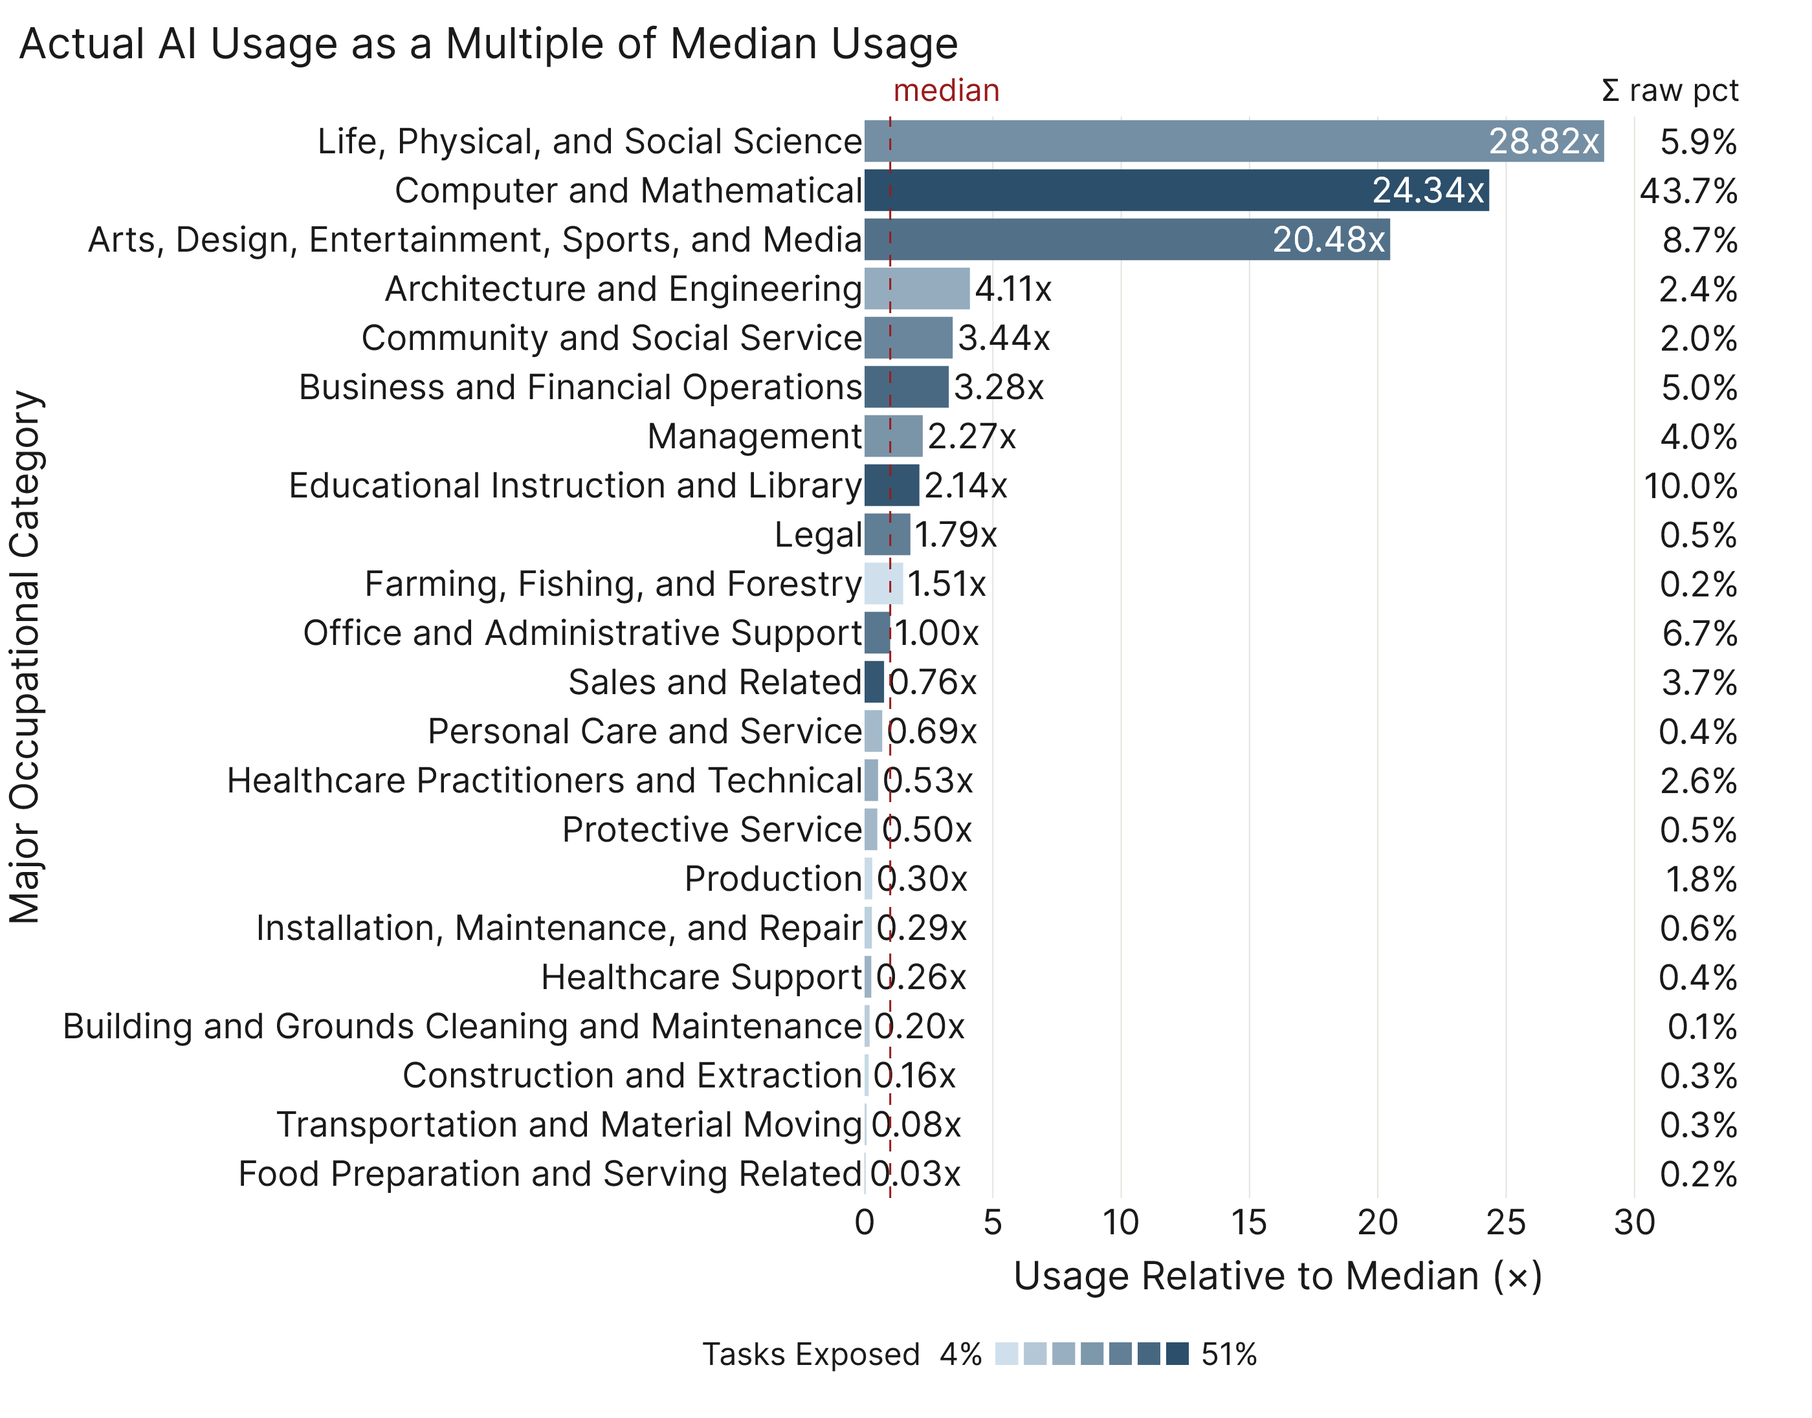
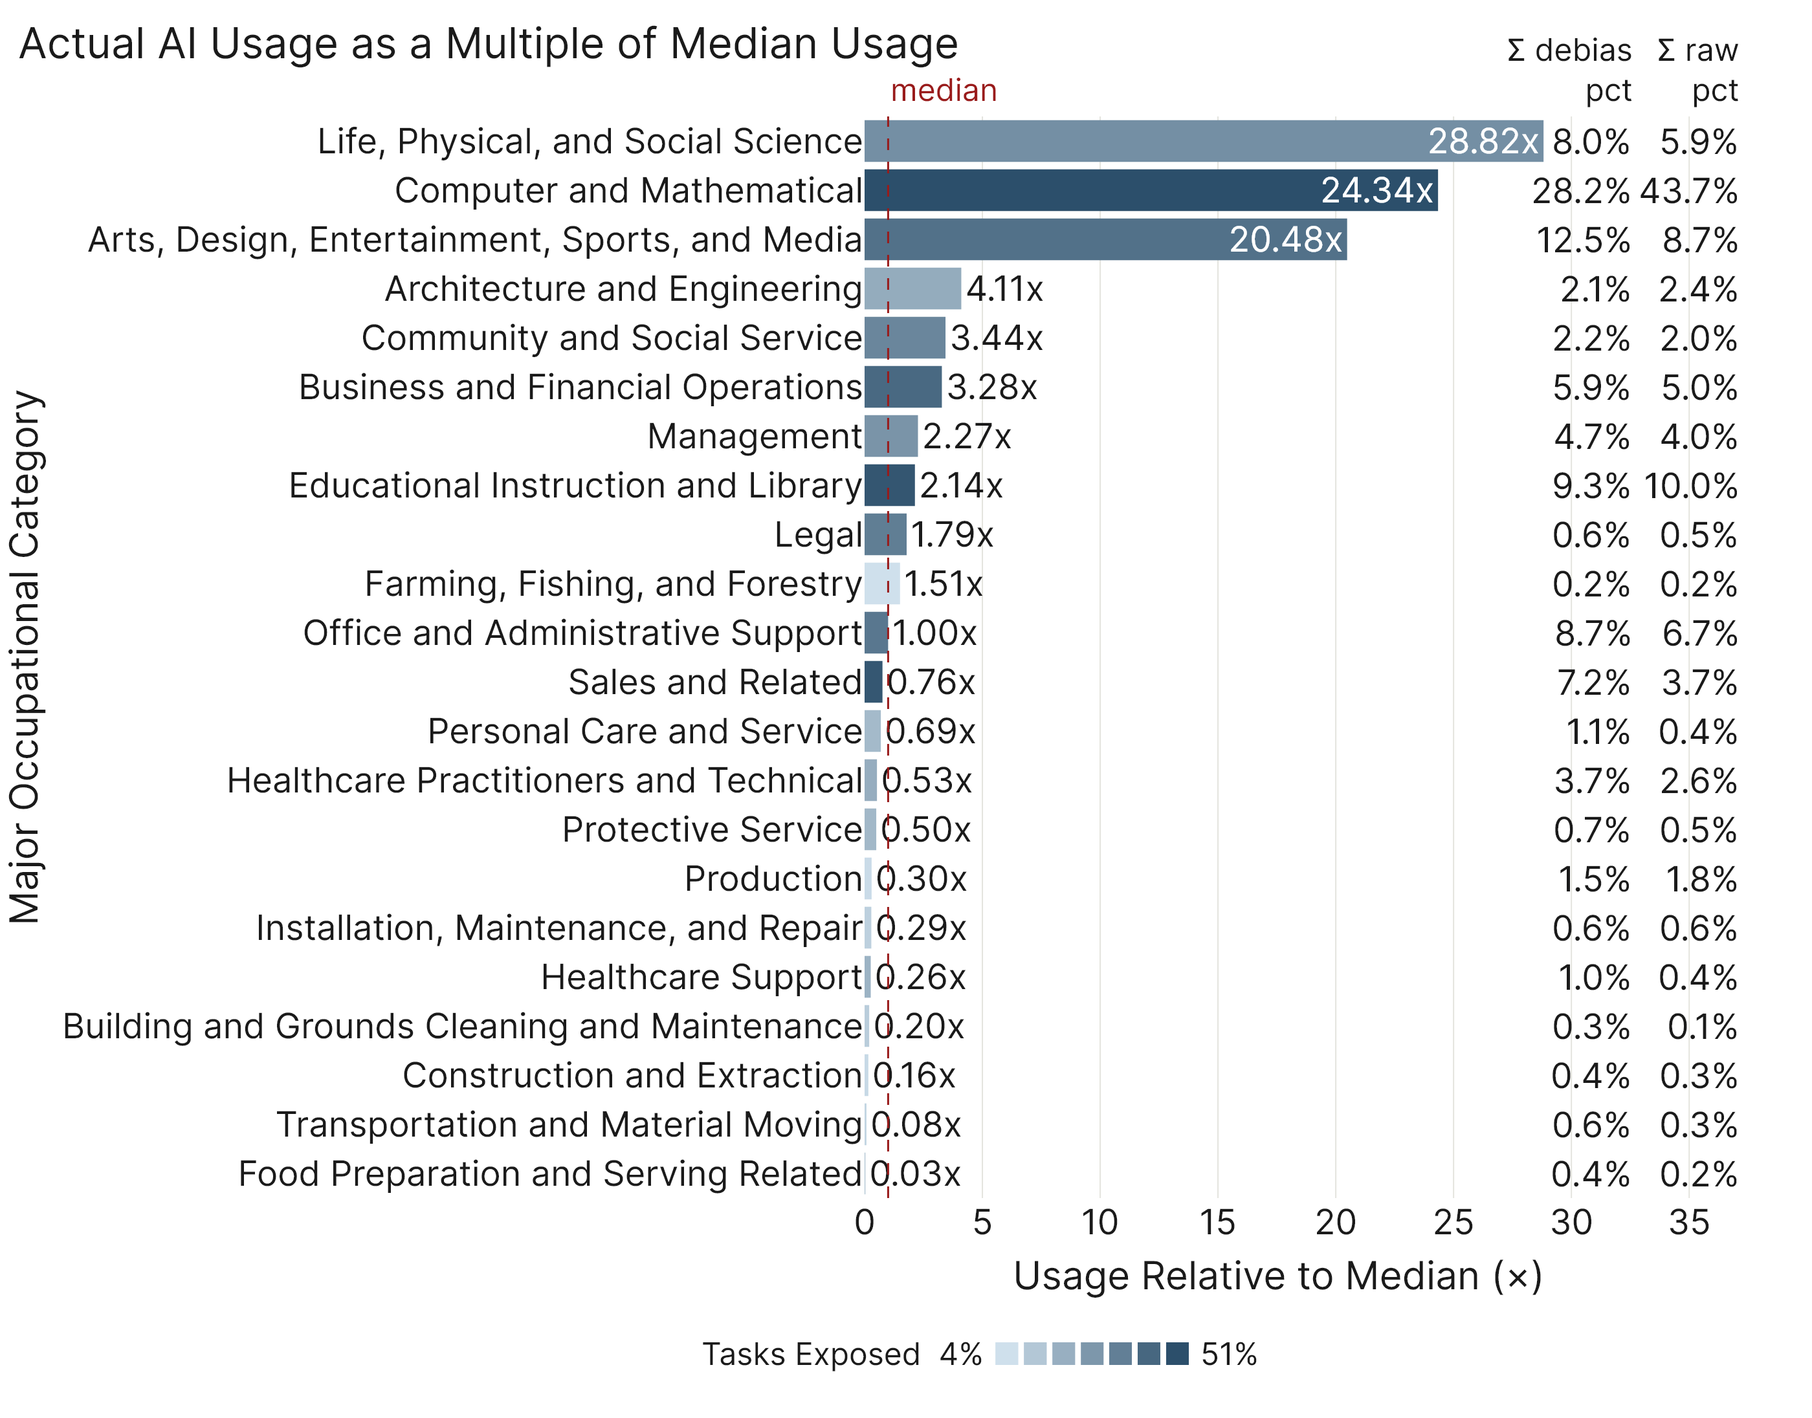
actual ai usage main chart debias pct column added

diff --git a/analysis/paper/results/part_3/run.py b/analysis/paper/results/part_3/run.py
@@ -660,8 +660,18 @@ def build_intensity_anchor_fulleco(results: Path, figures: Path) -> None:
     base["lift"] = base["ratio_full_pct"] / anchor_val
     median_lift = float(base["lift"].median())
 
+    # Debiased usage-mass share, the bias-corrected counterpart to raw_pct.
+    # raw_pct sums to 100% across the 22 majors (Σ pct_normalized is already a
+    # share of total economy usage); the debiased adj_pct sums to >100 because
+    # the GWA bias correction rescales the mass, so we renormalize to 100% to
+    # keep the two columns directly comparable as shares.
+    num_total = float(base["num"].sum())
+    base["debias_pct"] = np.where(
+        num_total > 0, base["num"] / num_total * 100.0, 0.0
+    )
+
     out = base[["category", "ratio_full_pct", "lift", "pct_tasks_affected",
-                "raw_pct"]].copy()
+                "raw_pct", "debias_pct"]].copy()
     out["anchor_value"] = anchor_val
     out["median_lift"] = median_lift
     save_csv(
@@ -694,10 +704,11 @@ def build_intensity_anchor_fulleco(results: Path, figures: Path) -> None:
         for v in plot_df["lift"]
     ]
     # Axis headroom beyond the longest bar so the top bars' inside labels
-    # aren't crammed against the right edge and the bar ends clear the
-    # Σ raw pct column (which is pinned near the PNG edge and can't shift
-    # further right). 12% leaves a comfortable gap without looking empty.
-    x_axis_max = max(plot_df["lift"]) * 1.12
+    # aren't crammed against the right edge and the bar ends clear BOTH
+    # right-margin columns (Σ debias pct sits in the plot-area tail and can't
+    # shift further right). 18% squishes the bars slightly to open that tail
+    # so the inner column has clean whitespace to land in.
+    x_axis_max = max(plot_df["lift"]) * 1.22
     inside_font  = dict(size=px["tick"], color="white",                family=FONT_FAMILY)
     outside_font = dict(size=px["tick"], color=PAPER_PALETTE["text"], family=FONT_FAMILY)
 
@@ -735,30 +746,42 @@ def build_intensity_anchor_fulleco(results: Path, figures: Path) -> None:
         font=dict(size=px["in_chart_floor"], color=PAPER_PALETTE["negative"], family=FONT_FAMILY),
     )
 
-    # Raw Σ pct-norm column in the right whitespace — un-debiased
-    # Σ pct_normalized per major (the same quantity the appendix
-    # intensity_drivers charts print beside each bar). The bars keep their
-    # bias-corrected lift labels; this adds the raw usage mass as a tidy
-    # right-aligned numeric column so a high-lift / low-mass major (e.g.
-    # Computer & Math carries the largest raw pct but not the largest lift)
-    # is legible. Fixed %.1f means every value has the same decimal width,
-    # so right-anchoring lines the decimal points up into a clean column.
-    # Anchored in paper coords (into the right margin) so it sits clear of
-    # the longest bar regardless of the lift axis range.
-    COL_X = 1.06  # paper x — right edge of the column, ~12 px in from the PNG edge
-    fig.add_annotation(
-        x=COL_X, y=1.005, xref="paper", yref="paper",
-        text="Σ raw pct", showarrow=False,
-        xanchor="right", yanchor="bottom",
-        font=dict(size=px["in_chart_floor"], color=PAPER_PALETTE["text"], family=FONT_FAMILY),
-    )
-    for cat, raw in zip(plot_df["display_category"], plot_df["raw_pct"]):
+    # Two right-margin numeric columns in the whitespace beyond the bars:
+    # the bias-corrected Σ debias pct (inner) and the un-debiased Σ raw pct
+    # (outer, the same quantity the appendix intensity_drivers charts print
+    # beside each bar). Both are usage-mass shares that sum to 100% across the
+    # 22 majors — raw_pct from Σ pct_normalized, debias_pct from Σ adj_pct
+    # renormalized to 100% (debias reallocates mass, so the comparable view is
+    # the redistributed share, matching the audit pipeline's "renormed to 100%"
+    # convention). Printing them side by side exposes how the GWA debias
+    # reweights mass: Computer & Math falls 43.7% -> 28.2%, Arts rises
+    # 8.7% -> 12.5%. The bars keep their bias-corrected lift labels. Fixed
+    # %.1f keeps a constant decimal width so right-anchoring lines the decimals
+    # into clean columns; two-line headers keep each column narrow. Both sit
+    # in the right whitespace the original chart already had (the squished
+    # plot-area tail past the bars + the original ~92 px margin), so the total
+    # right whitespace matches the single-column original — the outer Σ raw pct
+    # stays at its original 1.06 position and the inner Σ debias pct lands in
+    # the gridline-free tail just left of it.
+    COL_X_DEBIAS = 0.93  # paper x — right edge of the inner (debias) column
+    COL_X_RAW = 1.06     # paper x — right edge of the outer (raw) column
+    for col_x, header, field in (
+        (COL_X_DEBIAS, "Σ debias<br>pct", "debias_pct"),
+        (COL_X_RAW, "Σ raw<br>pct", "raw_pct"),
+    ):
         fig.add_annotation(
-            x=COL_X, y=cat, xref="paper", yref="y",
-            text=f"{raw:.1f}%", showarrow=False,
-            xanchor="right", yanchor="middle",
-            font=dict(size=px["tick"], color=PAPER_PALETTE["text"], family=FONT_FAMILY),
+            x=col_x, y=1.005, xref="paper", yref="paper",
+            text=header, showarrow=False,
+            xanchor="right", yanchor="bottom", align="right",
+            font=dict(size=px["in_chart_floor"], color=PAPER_PALETTE["text"], family=FONT_FAMILY),
         )
+        for cat, val in zip(plot_df["display_category"], plot_df[field]):
+            fig.add_annotation(
+                x=col_x, y=cat, xref="paper", yref="y",
+                text=f"{val:.1f}%", showarrow=False,
+                xanchor="right", yanchor="middle",
+                font=dict(size=px["tick"], color=PAPER_PALETTE["text"], family=FONT_FAMILY),
+            )
 
     # Bottom legend: HTML-swatch gradient matching tech_commodities style.
     def _hex_to_rgb(h: str) -> tuple[int, int, int]:
@@ -807,8 +830,11 @@ def build_intensity_anchor_fulleco(results: Path, figures: Path) -> None:
             "Claude / Copilot / ChatGPT GWA-distribution blend (work-related ChatGPT chats)."
         ),
         height=chart_h, width=W,
-        # r sized to host the "Σ raw pct" column with a small edge clearance
-        # so the trailing "%" never clips.
+        # r kept at the original single-column width — both numeric columns
+        # (Σ debias pct, Σ raw pct) fit in the existing right whitespace
+        # (squished plot-area tail + this margin), so the chart's right edge
+        # matches the original. Σ raw pct keeps its small edge clearance so the
+        # trailing "%" never clips.
         margin=dict(l=20, r=92, t=MARGIN_T, b=MARGIN_B),
     )
     fig.update_layout(bargap=0.15)

diff --git a/analysis/paper/results/results_prose_dense.md b/analysis/paper/results/results_prose_dense.md
@@ -793,34 +793,34 @@ The legend below the map (2 columns, centered) renders the cluster names — eac
 
 ![intensity_anchor_fulleco.png](part_3/figures/intensity_anchor_fulleco.png)
 
-22 majors ranked by AI intensity ratio (Σ pct ÷ Σ freq × emp over the full eco_2025 universe, debiased by Claude / Copilot / ChatGPT GWA-distribution priors, AEI-only no-Microsoft pool), renormalized to sum to 100% across the 22 majors, then divided by the anchor major's value so the anchor reads as 1.00×. **Anchor**: Office and Administrative Support (renormalized share 1.0316% — sits at 1.00× by construction). A dashed vertical line at x = 1.0 marks the anchor (labeled "median"); the statistical median across the 22 lifts is 0.8799×. Bars are colored by `pct_tasks_affected` (the All Confirmed AEI-only-eco_2025 % tasks affected for that major) on a light → dark blue ramp. Bar text shows lift value (e.g., "28.82x") inside in white for wide bars, outside in dark for narrow bars. A right-aligned `Σ raw pct` column in the right margin reports each major's un-debiased Σ pct_normalized (raw AI-usage mass), in the same spirit as the appendix intensity_drivers charts that print the raw pct beside each bar. The column exposes a divergence the lift axis hides: Computer & Mathematical carries by far the largest raw usage mass (43.7%) yet ranks only second by lift, because its full-eco denominator (Σ freq × emp) is large.
+22 majors ranked by AI intensity ratio (Σ pct ÷ Σ freq × emp over the full eco_2025 universe, debiased by Claude / Copilot / ChatGPT GWA-distribution priors, AEI-only no-Microsoft pool), renormalized to sum to 100% across the 22 majors, then divided by the anchor major's value so the anchor reads as 1.00×. **Anchor**: Office and Administrative Support (renormalized share 1.0316% — sits at 1.00× by construction). A dashed vertical line at x = 1.0 marks the anchor (labeled "median"); the statistical median across the 22 lifts is 0.8799×. Bars are colored by `pct_tasks_affected` (the All Confirmed AEI-only-eco_2025 % tasks affected for that major) on a light → dark blue ramp. Bar text shows lift value (e.g., "28.82x") inside in white for wide bars, outside in dark for narrow bars. Two right-aligned numeric columns in the right margin report each major's usage mass as a share that sums to 100% across the 22 majors: `Σ debias pct` (the bias-corrected Σ adj_pct, renormalized to 100% — debias reallocates mass so the comparable view is the redistributed share) and `Σ raw pct` (the un-debiased Σ pct_normalized, the same quantity the appendix intensity_drivers charts print beside each bar). Side by side they expose how the GWA debias reweights usage mass — Computer & Mathematical falls from 43.7% raw to 28.2% debiased, while Arts rises from 8.7% to 12.5% — and the divergence the lift axis hides: Computer & Mathematical carries by far the largest raw usage mass (43.7%) yet ranks only second by lift, because its full-eco denominator (Σ freq × emp) is large.
 
 Per major (sorted by lift descending):
 
-| # | Major | Lift (×) | Σ raw pct (%) | ratio_full_pct (% of all-major share) | pct_tasks_affected (color value) |
-|---|---|---|---|---|---|
-| 1 | Life, Physical, and Social Science | 28.8184 | 5.9 | 29.7281 | 30.3567 |
-| 2 | Computer and Mathematical | 24.3407 | 43.7 | 25.1091 | 51.1236 |
-| 3 | Arts, Design, Entertainment, Sports, and Media | 20.4814 | 8.7 | 21.1279 | 40.1116 |
-| 4 | Architecture and Engineering | 4.1051 | 2.4 | 4.2347 | 20.9016 |
-| 5 | Community and Social Service | 3.4350 | 2.0 | 3.5435 | 33.1954 |
-| 6 | Business and Financial Operations | 3.2808 | 5.0 | 3.3844 | 42.6732 |
-| 7 | Management | 2.2662 | 4.0 | 2.3378 | 28.6389 |
-| 8 | Educational Instruction and Library | 2.1368 | 10.0 | 2.2043 | 48.8850 |
-| 9 | Legal | 1.7854 | 0.5 | 1.8418 | 35.9284 |
-| 10 | Farming, Fishing, and Forestry | 1.5053 | 0.2 | 1.5528 | 3.8543 |
-| 11 | Office and Administrative Support [anchor] | 1.0000 | 6.7 | 1.0316 | 38.1056 |
-| 12 | Sales and Related | 0.7597 | 3.7 | 0.7837 | 48.5881 |
-| 13 | Personal Care and Service | 0.6887 | 0.4 | 0.7104 | 16.3099 |
-| 14 | Healthcare Practitioners and Technical | 0.5258 | 2.6 | 0.5424 | 20.4777 |
-| 15 | Protective Service | 0.4958 | 0.5 | 0.5114 | 17.0041 |
-| 16 | Production | 0.2982 | 1.8 | 0.3076 | 5.3786 |
-| 17 | Installation, Maintenance, and Repair | 0.2860 | 0.6 | 0.2951 | 9.1197 |
-| 18 | Healthcare Support | 0.2622 | 0.4 | 0.2704 | 18.5493 |
-| 19 | Building and Grounds Cleaning and Maintenance | 0.1960 | 0.1 | 0.2022 | 9.9741 |
-| 20 | Construction and Extraction | 0.1599 | 0.3 | 0.1649 | 6.0669 |
-| 21 | Transportation and Material Moving | 0.0799 | 0.3 | 0.0824 | 7.5392 |
-| 22 | Food Preparation and Serving Related | 0.0326 | 0.2 | 0.0336 | 15.0711 |
+| # | Major | Lift (×) | Σ debias pct (%) | Σ raw pct (%) | ratio_full_pct (% of all-major share) | pct_tasks_affected (color value) |
+|---|---|---|---|---|---|---|
+| 1 | Life, Physical, and Social Science | 28.8184 | 8.0 | 5.9 | 29.7281 | 30.3567 |
+| 2 | Computer and Mathematical | 24.3407 | 28.2 | 43.7 | 25.1091 | 51.1236 |
+| 3 | Arts, Design, Entertainment, Sports, and Media | 20.4814 | 12.5 | 8.7 | 21.1279 | 40.1116 |
+| 4 | Architecture and Engineering | 4.1051 | 2.1 | 2.4 | 4.2347 | 20.9016 |
+| 5 | Community and Social Service | 3.4350 | 2.2 | 2.0 | 3.5435 | 33.1954 |
+| 6 | Business and Financial Operations | 3.2808 | 5.9 | 5.0 | 3.3844 | 42.6732 |
+| 7 | Management | 2.2662 | 4.7 | 4.0 | 2.3378 | 28.6389 |
+| 8 | Educational Instruction and Library | 2.1368 | 9.3 | 10.0 | 2.2043 | 48.8850 |
+| 9 | Legal | 1.7854 | 0.6 | 0.5 | 1.8418 | 35.9284 |
+| 10 | Farming, Fishing, and Forestry | 1.5053 | 0.2 | 0.2 | 1.5528 | 3.8543 |
+| 11 | Office and Administrative Support [anchor] | 1.0000 | 8.7 | 6.7 | 1.0316 | 38.1056 |
+| 12 | Sales and Related | 0.7597 | 7.2 | 3.7 | 0.7837 | 48.5881 |
+| 13 | Personal Care and Service | 0.6887 | 1.1 | 0.4 | 0.7104 | 16.3099 |
+| 14 | Healthcare Practitioners and Technical | 0.5258 | 3.7 | 2.6 | 0.5424 | 20.4777 |
+| 15 | Protective Service | 0.4958 | 0.7 | 0.5 | 0.5114 | 17.0041 |
+| 16 | Production | 0.2982 | 1.5 | 1.8 | 0.3076 | 5.3786 |
+| 17 | Installation, Maintenance, and Repair | 0.2860 | 0.6 | 0.6 | 0.2951 | 9.1197 |
+| 18 | Healthcare Support | 0.2622 | 1.0 | 0.4 | 0.2704 | 18.5493 |
+| 19 | Building and Grounds Cleaning and Maintenance | 0.1960 | 0.3 | 0.1 | 0.2022 | 9.9741 |
+| 20 | Construction and Extraction | 0.1599 | 0.4 | 0.3 | 0.1649 | 6.0669 |
+| 21 | Transportation and Material Moving | 0.0799 | 0.6 | 0.3 | 0.0824 | 7.5392 |
+| 22 | Food Preparation and Serving Related | 0.0326 | 0.4 | 0.2 | 0.0336 | 15.0711 |
 
 Anchor value (Office and Admin Support): ratio_full_pct = 1.0316%. Median lift across the 22: 0.8799×.
 

diff --git a/analysis/paper/results/part_3/README.md b/analysis/paper/results/part_3/README.md
@@ -11,7 +11,7 @@ the content settles.
 | `conv_confirmed_ceiling_gap.png` | All 22 major occ categories. Stacked horizontal bar with three segments per row: Conversational confirmed (`human_conversation`) base + Conv → Confirmed gap (`all_confirmed` − `human_conversation`, focal segment color-encoded by workers added) + Confirmed → Ceiling extension (`all_ceiling` − `all_confirmed`). Sorted by Conv → Confirmed % tasks gap (largest at top). Right-side per-row annotations: pp / workers / wages deltas for both gaps. |
 | `risk_score_5f_workers.png` | "Occupations with High AI Exposure and Negative Employment Projection" — same SKA-gated focused set as the prior `risk_score_5f` (negative BLS emp proj, >50% tasks exposed, exposure trend above median, AI capability above median for SKA need). Two-panel horizontal bar chart, shared y-axis: Panel A = % tasks exposed (in-bar number = tasks %), Panel B = workers exposed (in-bar number = formatted worker count). Y-order descending by % tasks exposed. Bars colored by `|emp_proj_pct|` (light tan → dark burgundy; darker = larger decline). A right-side `Emp Proj` column gives the signed emp-proj % per row as one straight vertical line. Bottom legend (gradient swatch) is centered on the PNG via the empirically tuned x=0.104 anchor pattern. Replaces the prior single-panel `risk_score_5f.png` (function `build_risk_score_5f` kept in `run.py` for revert). |
 | `state_clusters_map.png` | U.S. choropleth coloring each state by its Ward AI-exposure cluster. Ward hierarchical clustering on two standardized features: % of state workforce exposed and % of state employment in the High AI Exp & <0 Emp Proj set from `risk_score_5f`. k=3 chosen automatically by largest merge-distance jump; DC is shown as a labeled outlier (its 45.9% workforce-exposed score is so extreme it inflates the z-scoring std and distorts the rest of the structure if included). Companion ranked-bars chart in the appendix (`state_clusters_each_ranked.png`). Reuses compute from `analysis/exploratory/deepdive_state_clusters/run.py`. |
-| `intensity_anchor_fulleco.png` | Major occ categories ranked by AI intensity ratio: Σ pct (rated, equal 3-source bias-corrected) / Σ (freq × emp) over the FULL eco_2025 universe, renormalized to 100% across the 22 majors, then divided by the anchor major's value so the anchor reads as 1.00×. Anchor: Office and Administrative Support. Dashed vertical line at the lift distribution's statistical median. Bars shaded by `pct_tasks_affected` (darker = higher). A right-aligned `Σ raw pct` column in the right margin reports each major's un-debiased Σ `pct_normalized` (raw AI-usage mass), matching how the appendix `intensity_drivers_*` charts surface the raw pct alongside the bias-corrected lift; saved to `intensity_anchor_fulleco.csv` as `raw_pct`. **Data source diverges from the rest of Part 3**: this chart uses `AEI Both 2025 2026-02-12` (= `final_aei_all_usage_2025_2026-02-12.csv` — AEI Conv + AEI API pooled onto eco_2025, no Microsoft) for both numerator and colorbar. The equal 3-source bias correction (Claude / Copilot / ChatGPT GWA priors) still applies. Reuses compute from `analysis/exploratory/audit_pct_norm_eco/run_v3.py` chart 15. |
+| `intensity_anchor_fulleco.png` | Major occ categories ranked by AI intensity ratio: Σ pct (rated, equal 3-source bias-corrected) / Σ (freq × emp) over the FULL eco_2025 universe, renormalized to 100% across the 22 majors, then divided by the anchor major's value so the anchor reads as 1.00×. Anchor: Office and Administrative Support. Dashed vertical line at the lift distribution's statistical median. Bars shaded by `pct_tasks_affected` (darker = higher). Two right-aligned columns in the right margin report each major's usage mass as a share summing to 100% across the 22 majors: `Σ debias pct` (the bias-corrected Σ `adj_pct` renormalized to 100% — debias reallocates mass, so the comparable view is the redistributed share, matching the audit pipeline's "renormed to 100%" convention) and `Σ raw pct` (the un-debiased Σ `pct_normalized`, matching how the appendix `intensity_drivers_*` charts surface the raw pct alongside the bias-corrected lift). Saved to `intensity_anchor_fulleco.csv` as `debias_pct` and `raw_pct`. **Data source diverges from the rest of Part 3**: this chart uses `AEI Both 2025 2026-02-12` (= `final_aei_all_usage_2025_2026-02-12.csv` — AEI Conv + AEI API pooled onto eco_2025, no Microsoft) for both numerator and colorbar. The equal 3-source bias correction (Claude / Copilot / ChatGPT GWA priors) still applies. Reuses compute from `analysis/exploratory/audit_pct_norm_eco/run_v3.py` chart 15. |
 
 ## Config
 
